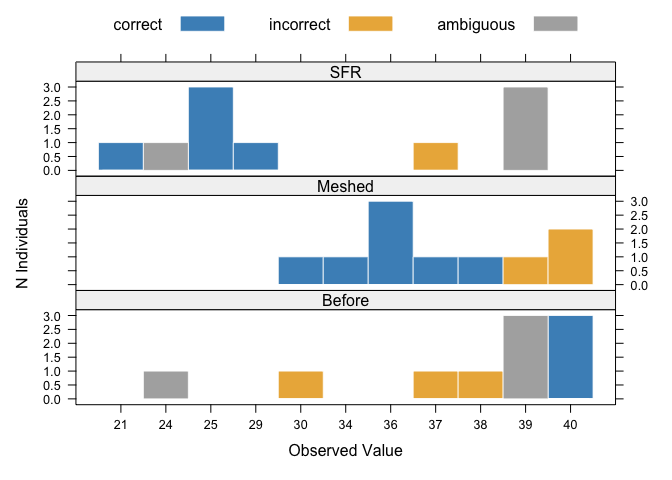
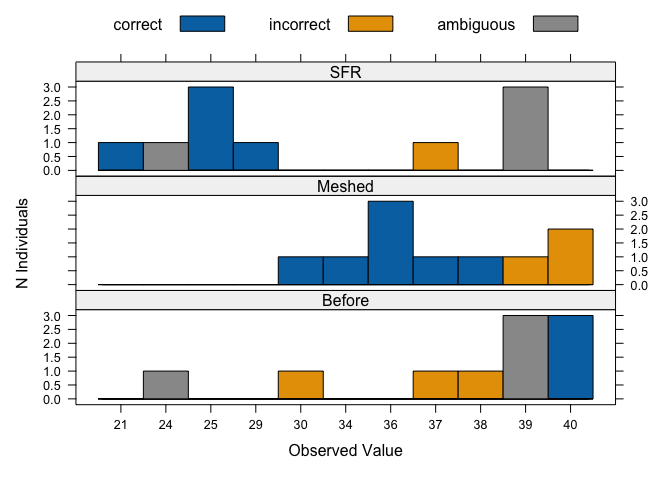
Changed plot colours

diff --git a/README.md b/README.md
@@ -84,8 +84,8 @@ summary(mod)
 #> ********** Randomisation Test **********
 #> Random reorderings: 1000 
 #> Minimum random PCC: 26.67 
-#> Maximum random PCC: 83.33 
-#> Chance-value: 0.9 
+#> Maximum random PCC: 76.67 
+#> Chance-value: 0.92 
 #> 
 #>    individual observation target prediction  accuracy  csi
 #> 1           1          39    SFR Before|SFR ambiguous 0.68
